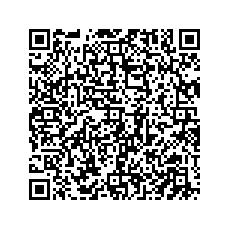
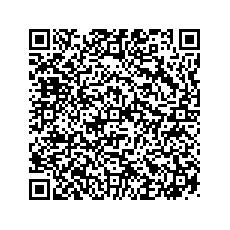
Finalice el metodo para mostrar el QR y que se refresque cada vez que hay uno nuevo

Changed region(s): [[0.1217, 0.1217, 0.8826, 0.8826]]

diff --git a/FitAdmin/src/main/java/org/example/GUI/JfrAcceso.java b/FitAdmin/src/main/java/org/example/GUI/JfrAcceso.java
@@ -10,9 +10,12 @@ import org.example.Modelo.Cliente;
 import org.example.Modelo.Gimnasio;
 
 
+import javax.imageio.ImageIO;
 import javax.swing.*;
 import javax.swing.text.DefaultFormatterFactory;
 import javax.swing.text.NumberFormatter;
+import java.awt.image.BufferedImage;
+import java.io.File;
 import java.io.FileNotFoundException;
 import java.io.IOException;
 import java.text.NumberFormat;
@@ -222,15 +225,20 @@ public class JfrAcceso extends javax.swing.JFrame {
     {
         ContadorIdUsuario.setModel(new javax.swing.SpinnerNumberModel());
     }
+
+
+    private void BotonIrParaAtrasActionPerformed(java.awt.event.ActionEvent evt) {
+        this.setVisible(false);
+        JfrMenuPrincipal prin = new JfrMenuPrincipal();
+        prin.setVisible(true);
+    }
     private void BotonGenerarQRActionPerformed(java.awt.event.ActionEvent evt) {
 
-        Gimnasio gym = GUIEnvoltorio.getGimnasio();
-        QrAPI qrAPI = new QrAPI();
+        Gimnasio gym = GUIEnvoltorio.getGimnasio();//agarro el gimnasio entero
+        QrAPI qrAPI = new QrAPI();//preparo un QR para usarlo despues
         Integer idSocioSeleccionado;
         Integer filaSeleccionada = TableSeleccionarClienteQR.getSelectedRow();//agarro la fila que seleccionaron con el mouse
-
-
-
+        String rutaQRaGenerar = "QRaGenerar";
 
 
         if(filaSeleccionada != -1 ) //si no selecciono nada retorna -1
@@ -241,28 +249,32 @@ public class JfrAcceso extends javax.swing.JFrame {
             if (clienteAux != null || idSocioSeleccionado != null)
             {
 
-
-
                 try {
                     //intento entrar al api
                     dropBoxAPI=new DropBoxAPI();
 
-
                     gym.crearPDFParaQR(clienteAux);//GENERA LOS DATOS PARA LUEGO SUBIR EL PDF A DB
-                    dropBoxAPI.subirPDF("QRaGenerar");//nombre del archivo de donde se genero el PDF del cliente
+                    dropBoxAPI.subirPDF(rutaQRaGenerar);//nombre del archivo de donde se genero el PDF del cliente
 
-                    String url = dropBoxAPI.obtenerURL("QRaGenerar");
+                    String url = dropBoxAPI.obtenerURL(rutaQRaGenerar);
                     qrAPI.generarQr(url);
                     // Ruta relativa a la imagen en la carpeta del proyecto
                     String rutaImagen = "qrCliente.jpg";
 
                     // Cargar la imagen desde la ruta especificada
-                    ImageIcon icono = new ImageIcon(rutaImagen);
 
+                    // Eliminar cualquier posible caché de la imagen al recargarla
+                    BufferedImage bufferedImage = ImageIO.read(new File(rutaImagen));
+                    ImageIcon icono = new ImageIcon(bufferedImage);
                     // Establecer el icono en el JLabel
-                    MostrarImagenQR.setIcon(icono);
+                    MostrarImagenQR.setIcon(null); // Limpiar el icono anterior
+                    MostrarImagenQR.setIcon(icono); // Establecer el nuevo icono
+                    MostrarImagenQR.revalidate(); // Actualizar el JLabel
+                    MostrarImagenQR.repaint(); // Repintar el JLabel
+
                 }
-                catch (DbxException e) {
+                catch (DbxException e)
+                {
                     //url invalida
                     e.printStackTrace();
                 }
@@ -276,8 +288,6 @@ public class JfrAcceso extends javax.swing.JFrame {
                 } catch (IOException e) {
                     System.out.println("Archivo roto");
                 }
-
-
             }
             else
             {
@@ -291,13 +301,6 @@ public class JfrAcceso extends javax.swing.JFrame {
 
 
     }
-
-    private void BotonIrParaAtrasActionPerformed(java.awt.event.ActionEvent evt) {
-        this.setVisible(false);
-        JfrMenuPrincipal prin = new JfrMenuPrincipal();
-        prin.setVisible(true);
-    }
-
     private void BotonBuscarIdActionPerformed(java.awt.event.ActionEvent evt) {
         // busco el id que esta seleccionado en el contador y lo muestro en la tabla
 
